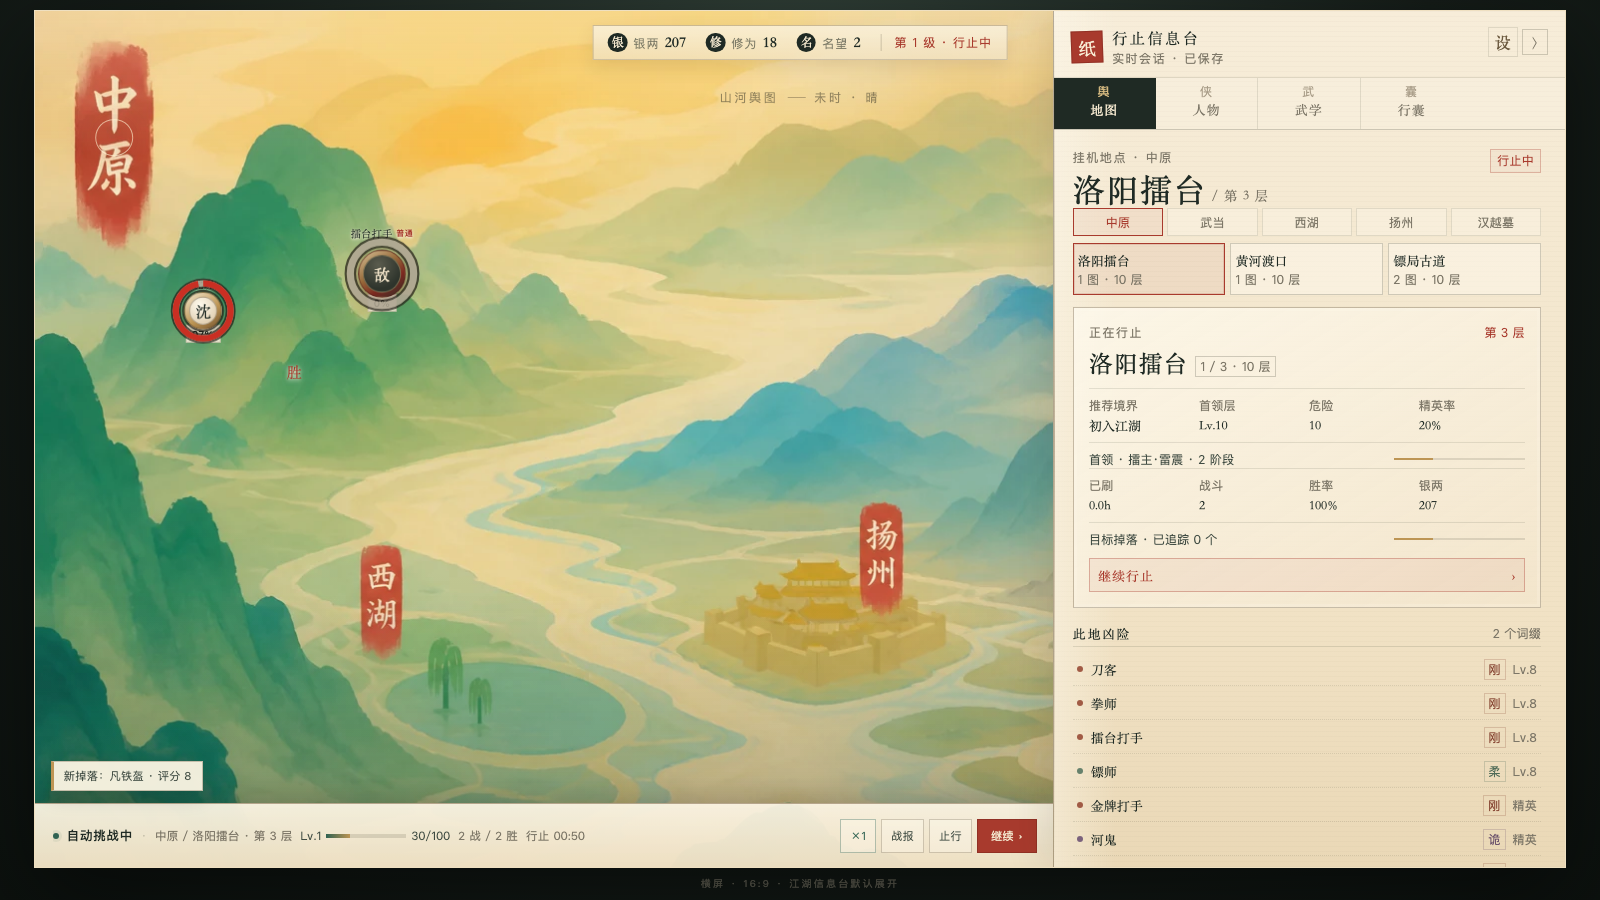
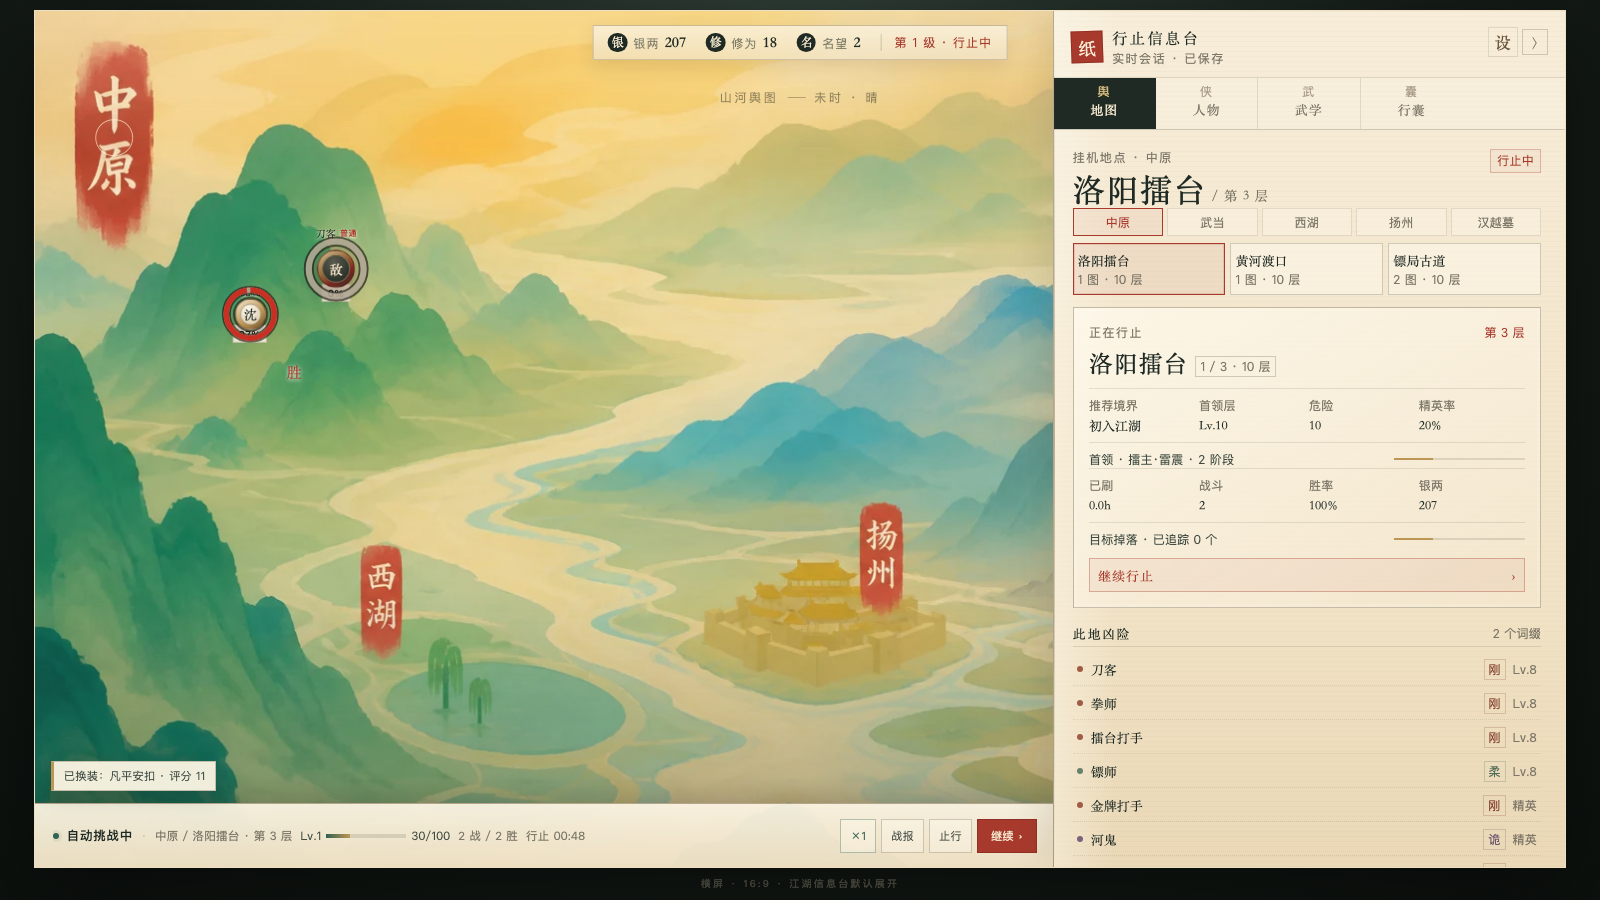
ui: tighten and accelerate battle presentation

Changed region(s): [[0.0938, 0.2489, 0.2812, 0.4044], [0.0312, 0.84, 0.1562, 0.8711]]

diff --git a/src/ui/styles.css b/src/ui/styles.css
@@ -1564,3 +1564,43 @@ html[data-reduced-motion="true"] *, html[data-reduced-motion="true"] *::before, 
 .combat-orb.enemy { --orb: clamp(38px, 3vw, 50px); }
 .orb-figure { font-size: clamp(13px, 1vw, 18px); }
 .orb-hp { transition: color 180ms ease; }
+/* combat tuning: closer, smaller, faster, harder */
+.combat-orb { --orb: clamp(25px, 1.92vw, 33px); }
+.combat-orb.enemy { --orb: clamp(30px, 2.4vw, 40px); }
+.combat-orb.player { left: 24%; }
+.combat-orb.enemy { right: 24%; }
+.orb-figure { font-size: clamp(11px, .82vw, 14px); }
+.battle-cluster[data-first="player"] .combat-orb.player .orb-frame { animation-duration: 2s; }
+.battle-cluster[data-first="player"] .combat-orb.enemy .orb-frame { animation-duration: 2s; }
+.battle-cluster[data-first="enemy"] .combat-orb.enemy .orb-frame { animation-duration: 2s; }
+.battle-cluster[data-first="enemy"] .combat-orb.player .orb-frame { animation-duration: 2s; }
+.cluster-impact, .cluster-impact.beat-two { animation-duration: 2s; }
+.cluster-damage { animation-duration: 2s; }
+@keyframes beat-player-first {
+  0%, 34% { transform: translate(0, 0) scale(1) rotate(0); }
+  40% { transform: translate(-10px, 3px) scale(.96) rotate(-1.5deg); }
+  45% { transform: translate(44px, -12px) scale(1.16) rotate(3deg); }
+  50% { transform: translate(30px, -8px) scale(1.08) rotate(1.5deg); }
+  58%, 100% { transform: translate(0, 0) scale(1) rotate(0); }
+}
+@keyframes beat-player-second {
+  0%, 45% { transform: translate(0, 0) scale(1) rotate(0); }
+  49% { transform: translate(-10px, 3px) scale(.96) rotate(-1.5deg); }
+  54% { transform: translate(44px, -12px) scale(1.16) rotate(3deg); }
+  59% { transform: translate(30px, -8px) scale(1.08) rotate(1.5deg); }
+  67%, 100% { transform: translate(0, 0) scale(1) rotate(0); }
+}
+@keyframes beat-enemy-first {
+  0%, 8% { transform: translate(0, 0) scale(1) rotate(0); }
+  13% { transform: translate(10px, -3px) scale(.96) rotate(1.5deg); }
+  18% { transform: translate(-44px, 12px) scale(1.16) rotate(-3deg); }
+  23% { transform: translate(-30px, 8px) scale(1.08) rotate(-1.5deg); }
+  31%, 100% { transform: translate(0, 0) scale(1) rotate(0); }
+}
+@keyframes beat-enemy-second {
+  0%, 68% { transform: translate(0, 0) scale(1) rotate(0); }
+  72% { transform: translate(10px, -3px) scale(.96) rotate(1.5deg); }
+  77% { transform: translate(-44px, 12px) scale(1.16) rotate(-3deg); }
+  82% { transform: translate(-30px, 8px) scale(1.08) rotate(-1.5deg); }
+  90%, 100% { transform: translate(0, 0) scale(1) rotate(0); }
+}

diff --git a/src/ui/App.tsx b/src/ui/App.tsx
@@ -440,8 +440,8 @@ function BattleCluster(props: {
     const firstIsPlayer = playerFirst;
     const firstFinal = firstIsPlayer ? enemyHp : playerHp;
     const firstInterim = Math.round(100 - (100 - firstFinal) * 0.55);
-    const firstDelay = firstIsPlayer ? 1200 : 480;
-    const secondDelay = firstIsPlayer ? 2100 : 1500;
+    const firstDelay = firstIsPlayer ? 900 : 360;
+    const secondDelay = firstIsPlayer ? 1540 : 1080;
     const timers: number[] = [];
     timers.push(window.setTimeout(() => {
       setShownHp((prev) => firstIsPlayer ? { ...prev, enemy: firstInterim } : { ...prev, player: firstInterim });
